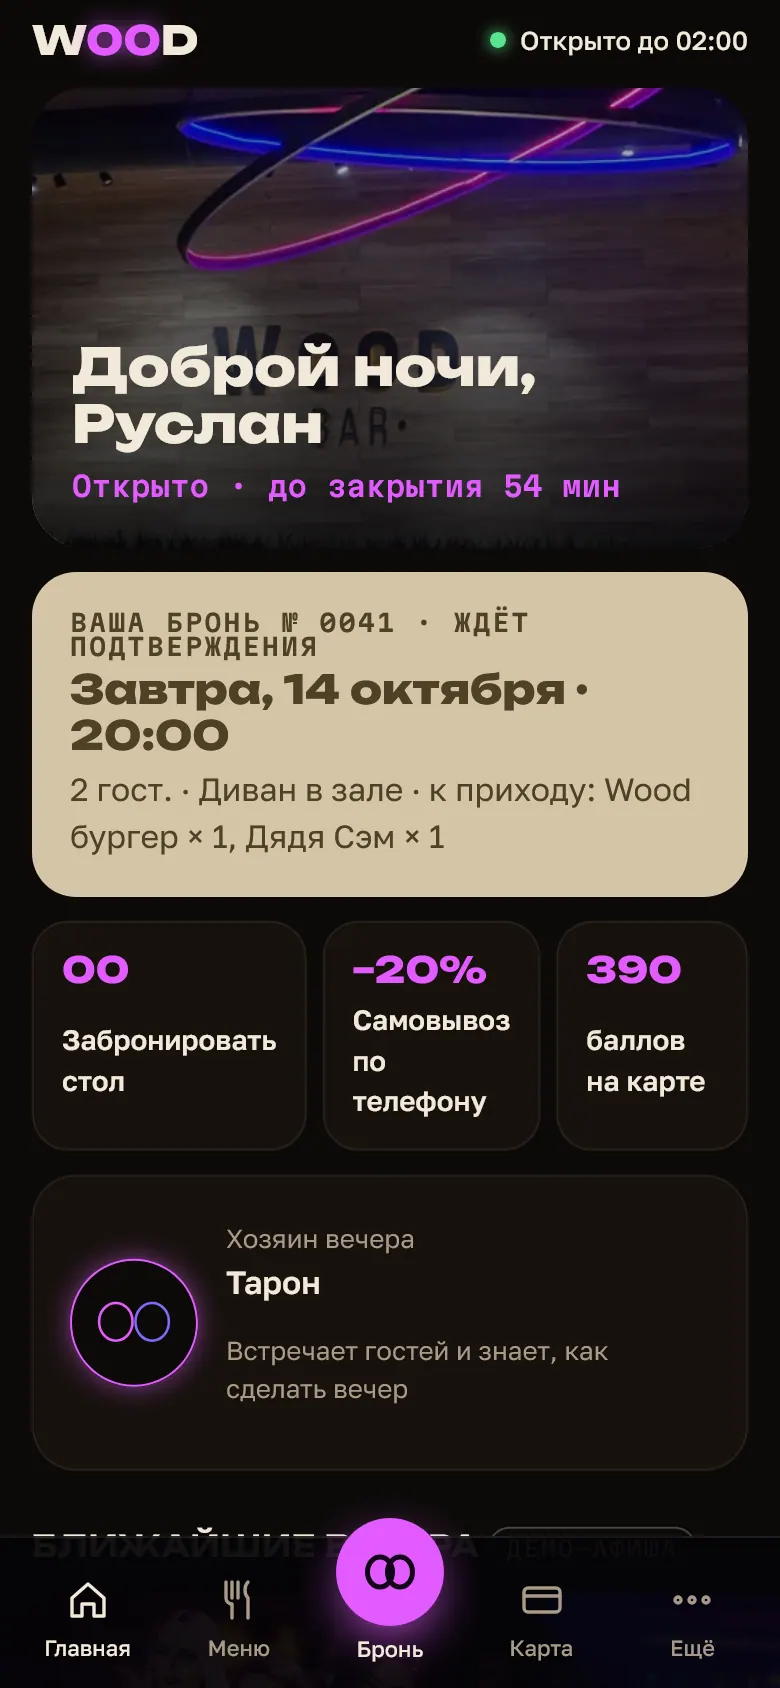
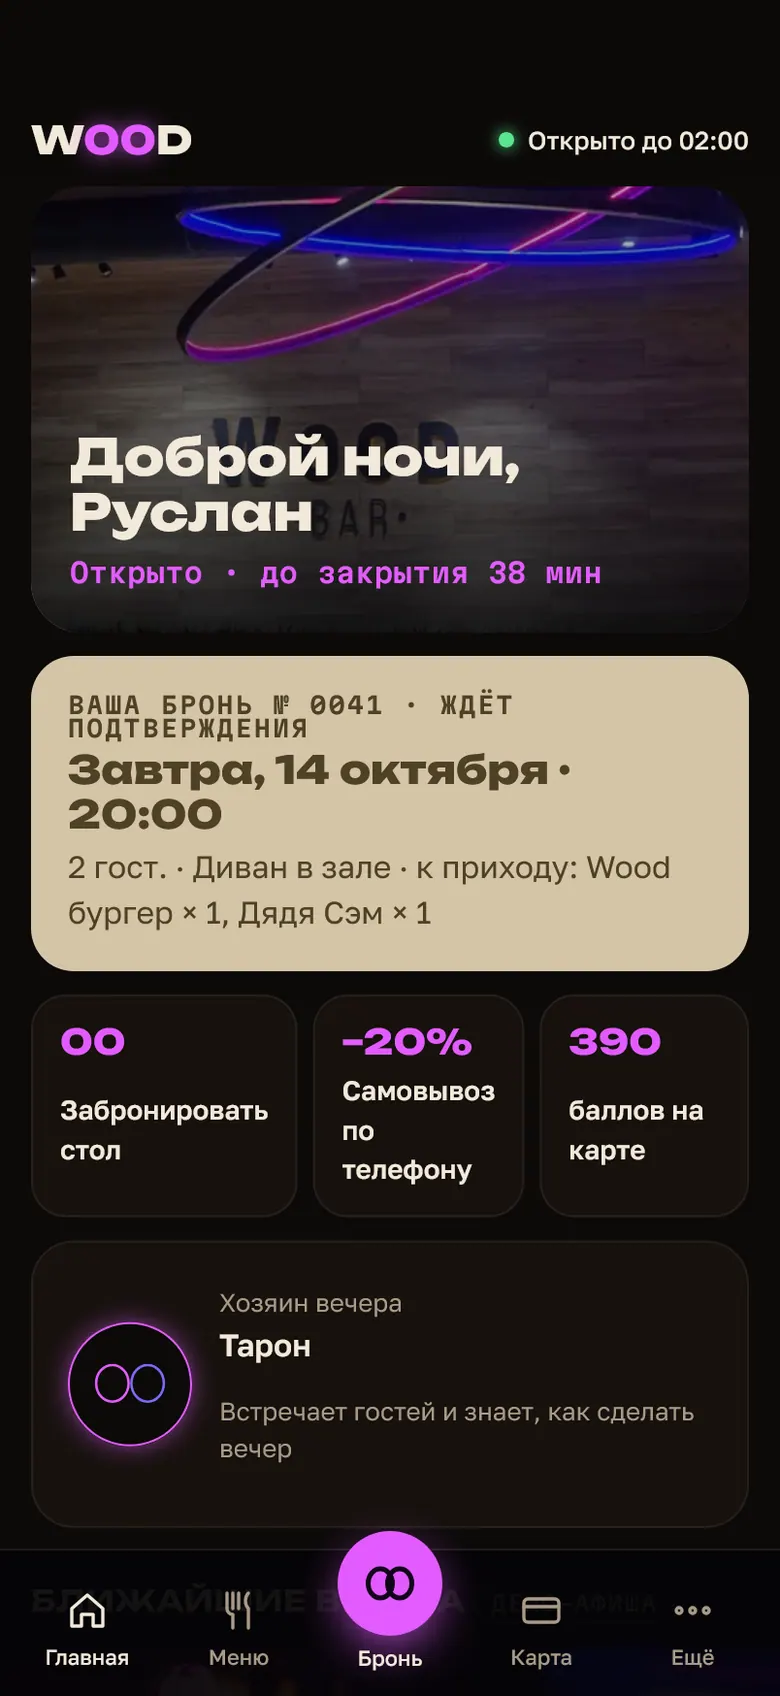
Демо: nol

diff --git a/nol/predlozhenie.html b/nol/predlozhenie.html
@@ -69,13 +69,13 @@ a:focus-visible,.btn:focus-visible{outline:2px solid var(--acc);outline-offset:3
 <section><div class="w">
   <h2>Что уже готово</h2>
   <div class="parts">
-    <article class="part"><a class="shot" href="./" tabindex="-1" aria-hidden="true"><img src="assets/offer/site.webp" alt="" width="520" height="1126" loading="lazy"></a>
+    <article class="part"><a class="shot" href="./" tabindex="-1" aria-hidden="true"><img src="assets/offer/site.webp" alt="" width="520" height="1131" loading="lazy"></a>
       <div class="t"><h3>Ваш сайт</h3><p>Меню с ценами, вечеринки и банкеты, отзывы, адрес и табличка «Открыто» по часам. Открывается за секунду с телефона, готов к поиску в Яндексе.</p><a class="go" href="./">Открыть<span aria-hidden="true">→</span></a></div></article>
-    <article class="part"><a class="shot" href="bron/" tabindex="-1" aria-hidden="true"><img src="assets/offer/bron.webp" alt="" width="520" height="1126" loading="lazy"></a>
+    <article class="part"><a class="shot" href="bron/" tabindex="-1" aria-hidden="true"><img src="assets/offer/bron.webp" alt="" width="520" height="1131" loading="lazy"></a>
       <div class="t"><h3>Бронь столика онлайн</h3><p>Гость сам выбирает вечер, время, число гостей и место в зале, может сразу заказать блюда к приходу — без звонка. Вам — уведомление в MAX или Telegram с кнопкой «Подтвердить».</p><a class="go" href="bron/">Открыть<span aria-hidden="true">→</span></a></div></article>
-    <article class="part"><a class="shot" href="bot.html" tabindex="-1" aria-hidden="true"><img src="assets/offer/bot.webp" alt="" width="520" height="1126" loading="lazy"></a>
+    <article class="part"><a class="shot" href="bot.html" tabindex="-1" aria-hidden="true"><img src="assets/offer/bot.webp" alt="" width="520" height="1131" loading="lazy"></a>
       <div class="t"><h3>Бот брони в MAX и Telegram</h3><p>Гость бронирует стол прямо в переписке, вы подтверждаете одной кнопкой. Бот напоминает за 2 часа, передаёт предзаказ кухне, наутро просит оценку и отзыв в 2ГИС.</p><a class="go" href="bot.html">Открыть<span aria-hidden="true">→</span></a></div></article>
-    <article class="part"><a class="shot" href="app/" tabindex="-1" aria-hidden="true"><img src="assets/offer/app.webp" alt="" width="520" height="1126" loading="lazy"></a>
+    <article class="part"><a class="shot" href="app/" tabindex="-1" aria-hidden="true"><img src="assets/offer/app.webp" alt="" width="520" height="1131" loading="lazy"></a>
       <div class="t"><h3>Приложение для ваших гостей</h3><p>Иконка на телефоне гостя: бронь стола, меню с предзаказом, карта гостя с QR и баллами, афиша вечеринок, подарочные сертификаты.</p><a class="go" href="app/">Открыть<span aria-hidden="true">→</span></a></div></article>
   </div>
 </div></section>
@@ -101,7 +101,7 @@ a:focus-visible,.btn:focus-visible{outline:2px solid var(--acc);outline-offset:3
     <div><b>Короткий разговор</b><p>15 минут: что оставить, что поменять, какие фото и блюда.</p></div>
     <div><b>Ваши данные</b><p>Фото зала и блюд, меню, точные цены — подставим за день.</p></div>
     <div><b>Запуск</b><p>Сайт и бронь — на вашем адресе за 7–10 дней.</p></div>
-    <div><b>Брони идут</b><p>Уведомления в Telegram, отчёт раз в месяц, правки — по сообщению.</p></div>
+    <div><b>Брони идут</b><p>Уведомления в MAX или Telegram, отчёт раз в месяц, правки — по сообщению.</p></div>
   </div>
 </div></section>
 

diff --git a/nol/index.html b/nol/index.html
@@ -213,7 +213,7 @@
     <h2 id="phone-t" class="h2" data-r>В телефоне гостя</h2>
     
     <p class="text" data-r>Приложение бара и бот брони в MAX и Telegram: гость бронирует стол, копит баллы, дарит сертификат — а вы видите всё в одном месте.</p>
-    <div class="devs"><a class="dev" href="app/" data-r><span class="dev-frame"><span class="dev-notch"></span><img src="assets/img/screen-app-780.webp" srcset="assets/img/screen-app-480.webp 480w, assets/img/screen-app-780.webp 780w" sizes="(min-width: 900px) 300px, 70vw" width="780" height="1688" alt="Приложение бара" loading="lazy" decoding="async"></span><b>Приложение бара</b><span>Бронь, меню, карта гостя с QR, афиша и сертификаты</span></a><a class="dev" href="bot.html" data-r><span class="dev-frame"><span class="dev-notch"></span><img src="assets/img/screen-bot-380.webp" srcset="assets/img/screen-bot-380.webp 380w" sizes="(min-width: 900px) 300px, 70vw" width="380" height="743" alt="Бот брони" loading="lazy" decoding="async"></span><b>Бот брони</b><span>Бронь в переписке, напоминание за 2 часа, отзыв после вечера</span></a></div>
+    <div class="devs"><a class="dev" href="app/" data-r><span class="dev-frame"><span class="dev-notch"></span><img src="assets/img/screen-app-780.webp" srcset="assets/img/screen-app-480.webp 480w, assets/img/screen-app-780.webp 780w, assets/img/screen-app-804.webp 804w" sizes="(min-width: 900px) 300px, 70vw" width="780" height="1696" alt="Приложение бара" loading="lazy" decoding="async"></span><b>Приложение бара</b><span>Бронь, меню, карта гостя с QR, афиша и сертификаты</span></a><a class="dev" href="bot.html" data-r><span class="dev-frame"><span class="dev-notch"></span><img src="assets/img/screen-bot-480.webp" srcset="assets/img/screen-bot-380.webp 380w, assets/img/screen-bot-480.webp 480w, assets/img/screen-bot-716.webp 716w" sizes="(min-width: 900px) 300px, 70vw" width="480" height="1044" alt="Бот брони" loading="lazy" decoding="async"></span><b>Бот брони</b><span>Бронь в переписке, напоминание за 2 часа, отзыв после вечера</span></a></div>
   </div>
 </section>
 

diff --git a/nol/bot.html b/nol/bot.html
@@ -29,9 +29,11 @@ h1 span{color:var(--neon);text-shadow:0 0 16px color-mix(in srgb,var(--neon) 60%
 .stage{display:grid;gap:28px;justify-content:center}
 @media(min-width:860px){.stage{grid-template-columns:repeat(2,minmax(0,380px))}}
 .who{font:500 13px/1 "Martian Mono",monospace;letter-spacing:.14em;text-transform:uppercase;color:var(--muted);margin:0 0 10px 8px}
-.phone{background:linear-gradient(145deg,#2b2a2e,#0e0d10);border-radius:46px;padding:11px;box-shadow:inset 0 0 0 1.5px #3c3b40,0 40px 70px -30px #000,0 0 60px -30px var(--neon);width:min(380px,100%)}
-.scr{border-radius:36px;overflow:hidden;background:#0f0e12;height:min(720px,80vh);display:flex;flex-direction:column}
-.top{display:flex;align-items:center;gap:12px;background:#17151b;padding:16px 16px 12px;border-bottom:1px solid rgba(255,255,255,.06)}
+.phone{position:relative;background:linear-gradient(145deg,#2b2a2e,#0e0d10);border-radius:52px;padding:11px;box-shadow:inset 0 0 0 1.5px #3c3b40,0 40px 70px -30px #000,0 0 60px -30px var(--neon);width:min(392px,100%,calc(84vh * 402 / 874 + 22px))}
+/* рамка iPhone 17 Pro: экран 402×874, «островок» сверху */
+.scr{border-radius:42px;overflow:hidden;background:#0f0e12;aspect-ratio:402/874;display:flex;flex-direction:column}
+.phone::before{content:"";position:absolute;top:22px;left:50%;width:31%;height:30px;margin-left:-15.5%;border-radius:20px;background:#000;z-index:2}
+.top{display:flex;align-items:center;gap:12px;background:#17151b;padding:52px 16px 12px;border-bottom:1px solid rgba(255,255,255,.06)}
 .av{width:42px;height:42px;border-radius:50%;background:#050406;display:grid;place-items:center;flex:none;border:1px solid color-mix(in srgb,var(--neon) 50%,transparent)}
 .av svg{width:30px}.av .ring{fill:none;stroke-width:9;stroke:var(--neon)}.av .r2{stroke:var(--neon-2)}
 .top b{display:block;font-size:15px;line-height:1.2}.top small{color:var(--muted);font-size:13px}

diff --git a/nol/assets/site/style.css b/nol/assets/site/style.css
@@ -278,11 +278,12 @@ button { font: inherit; color: inherit; }
 .devs { display: grid; gap: 28px; margin-top: 34px; }
 @media (min-width: 768px) { .devs { grid-template-columns: repeat(2, minmax(0, 320px)); gap: 48px; } }
 .dev { display: grid; gap: 8px; text-decoration: none; justify-items: start; }
-.dev-frame { position: relative; display: block; width: min(300px, 78vw); aspect-ratio: 9 / 19.5; border-radius: 46px; padding: 11px; background: linear-gradient(145deg, #2b2a2e, #0e0d10);
+/* рамка iPhone 17 Pro: экран 402×874, «островок» сверху, без логотипов */
+.dev-frame { position: relative; display: block; width: min(300px, 78vw); aspect-ratio: 402 / 874; box-sizing: content-box; border-radius: 48px; padding: 10px; background: linear-gradient(145deg, #2b2a2e, #0e0d10);
   box-shadow: inset 0 0 0 1.5px #3c3b40, 0 40px 70px -30px rgba(0,0,0,.9), 0 0 50px -20px var(--neon); transition: transform .4s ease; }
 .dev:hover .dev-frame { transform: translateY(-6px) rotate(-1deg); }
-.dev-frame img { width: 100%; height: 100%; object-fit: cover; object-position: top; border-radius: 36px; }
-.dev-notch { position: absolute; top: 20px; left: 50%; width: 30%; height: 22px; margin-left: -15%; border-radius: 20px; background: #000; z-index: 1; }
+.dev-frame img { width: 100%; height: 100%; object-fit: cover; object-position: top; border-radius: 39px; }
+.dev-notch { position: absolute; top: 18px; left: 50%; width: 31%; height: 26px; margin-left: -15.5%; border-radius: 20px; background: #000; z-index: 1; }
 .dev b { font: 600 18px/1.2 "Unbounded", sans-serif; margin-top: 10px; }
 .dev > span:last-child { color: var(--muted); font-size: 15px; max-width: 30ch; }
 /* страховка: если скрипт не загрузился, заставка уходит сама */

diff --git a/nol/app/sw.js b/nol/app/sw.js
@@ -1,5 +1,5 @@
 /* офлайн-кэш приложения: оболочка и данные; версия подставляется при сборке */
-const V = 'wood-mv700p2n', FILES = ['./', 'index.html', 'app.css', 'app.js', 'data.js', 'vendor/qrcode.js', 'manifest.webmanifest'];
+const V = 'wood-mv70f9pj', FILES = ['./', 'index.html', 'app.css', 'app.js', 'data.js', 'vendor/qrcode.js', 'manifest.webmanifest'];
 self.addEventListener('install', e => e.waitUntil(caches.open(V).then(c => c.addAll(FILES)).then(() => self.skipWaiting())));
 self.addEventListener('activate', e => e.waitUntil(self.clients.claim()));
 self.addEventListener('fetch', e => {
